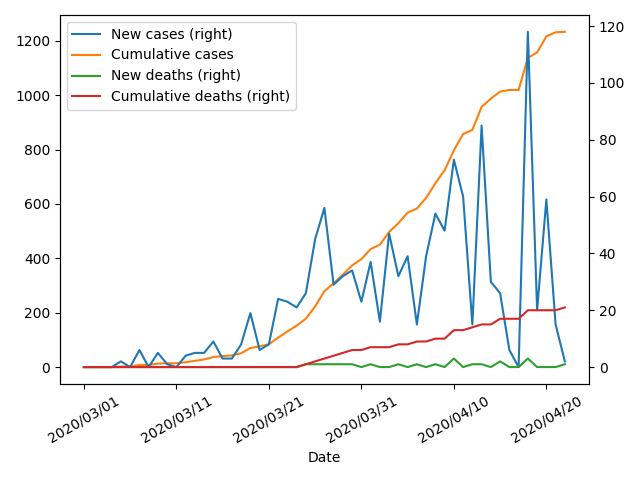
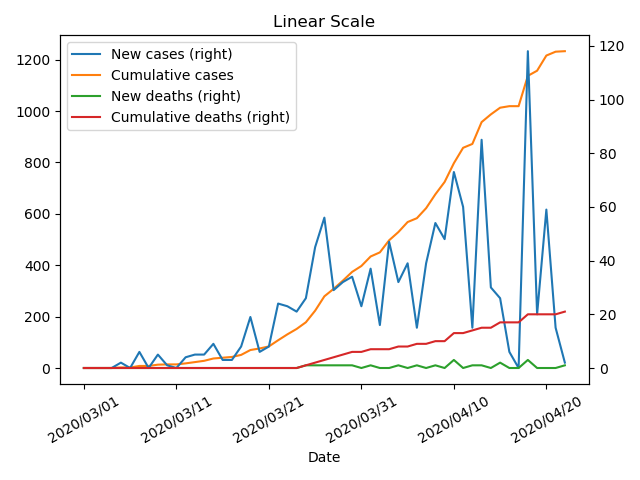
established distinction between fig1 and fig2, added dates to fig2, updated covid-19-log-fig.png

diff --git a/update-covid-19.py b/update-covid-19.py
@@ -44,11 +44,11 @@ def main():
 def write_image():
     df = pandas.read_csv(CSV_FILE)
     matplotlib.rcParams.update({'figure.autolayout': True})
-    fig = df.plot('Date', secondary_y=('New cases', 'New deaths', 'Cumulative deaths'), rot=30, title='Linear Scale').get_figure()
-    fig.savefig('covid-19-fig.png')
-    fig = df.plot(logy=True, title='Log Scale')
-    fig.yaxis.set_major_formatter(matplotlib.ticker.StrMethodFormatter('{x:,.0f}'))
-    fig.figure.savefig('covid-19-log-fig.png')
+    fig1 = df.plot('Date', secondary_y=('New cases', 'New deaths', 'Cumulative deaths'), rot=30, title='Linear Scale').get_figure()
+    fig1.savefig('covid-19-fig.png')
+    fig2 = df.plot('Date', rot=30, title='Log Scale', logy=True)
+    fig2.yaxis.set_major_formatter(matplotlib.ticker.StrMethodFormatter('{x:,.0f}'))
+    fig2.figure.savefig('covid-19-log-fig.png')
 
 
 def write_new(prev_cases, prev_deaths, curr_cases, curr_deaths, curr_date):
